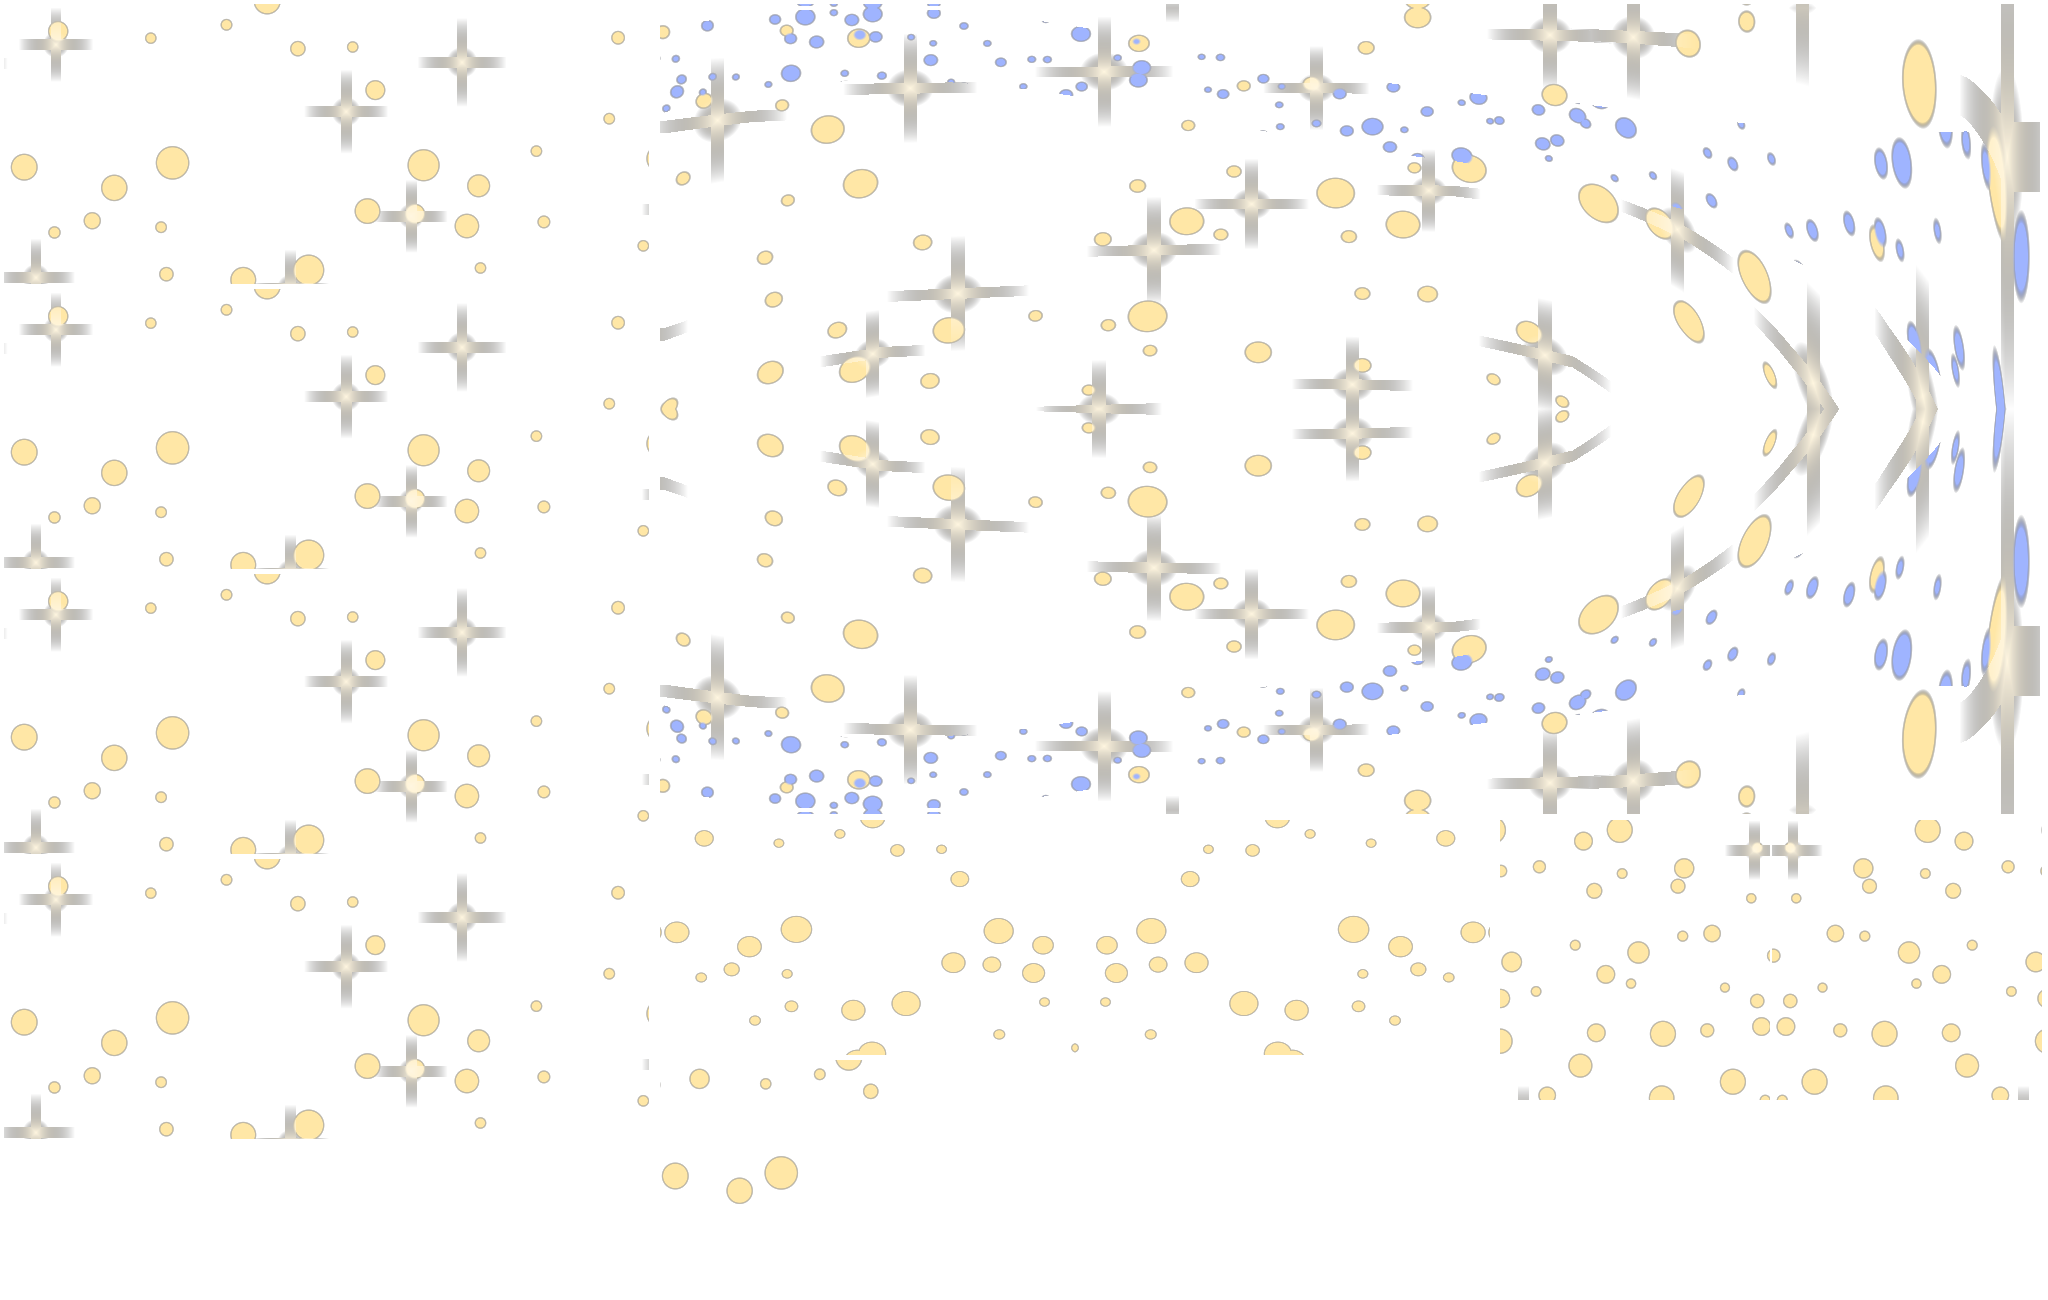
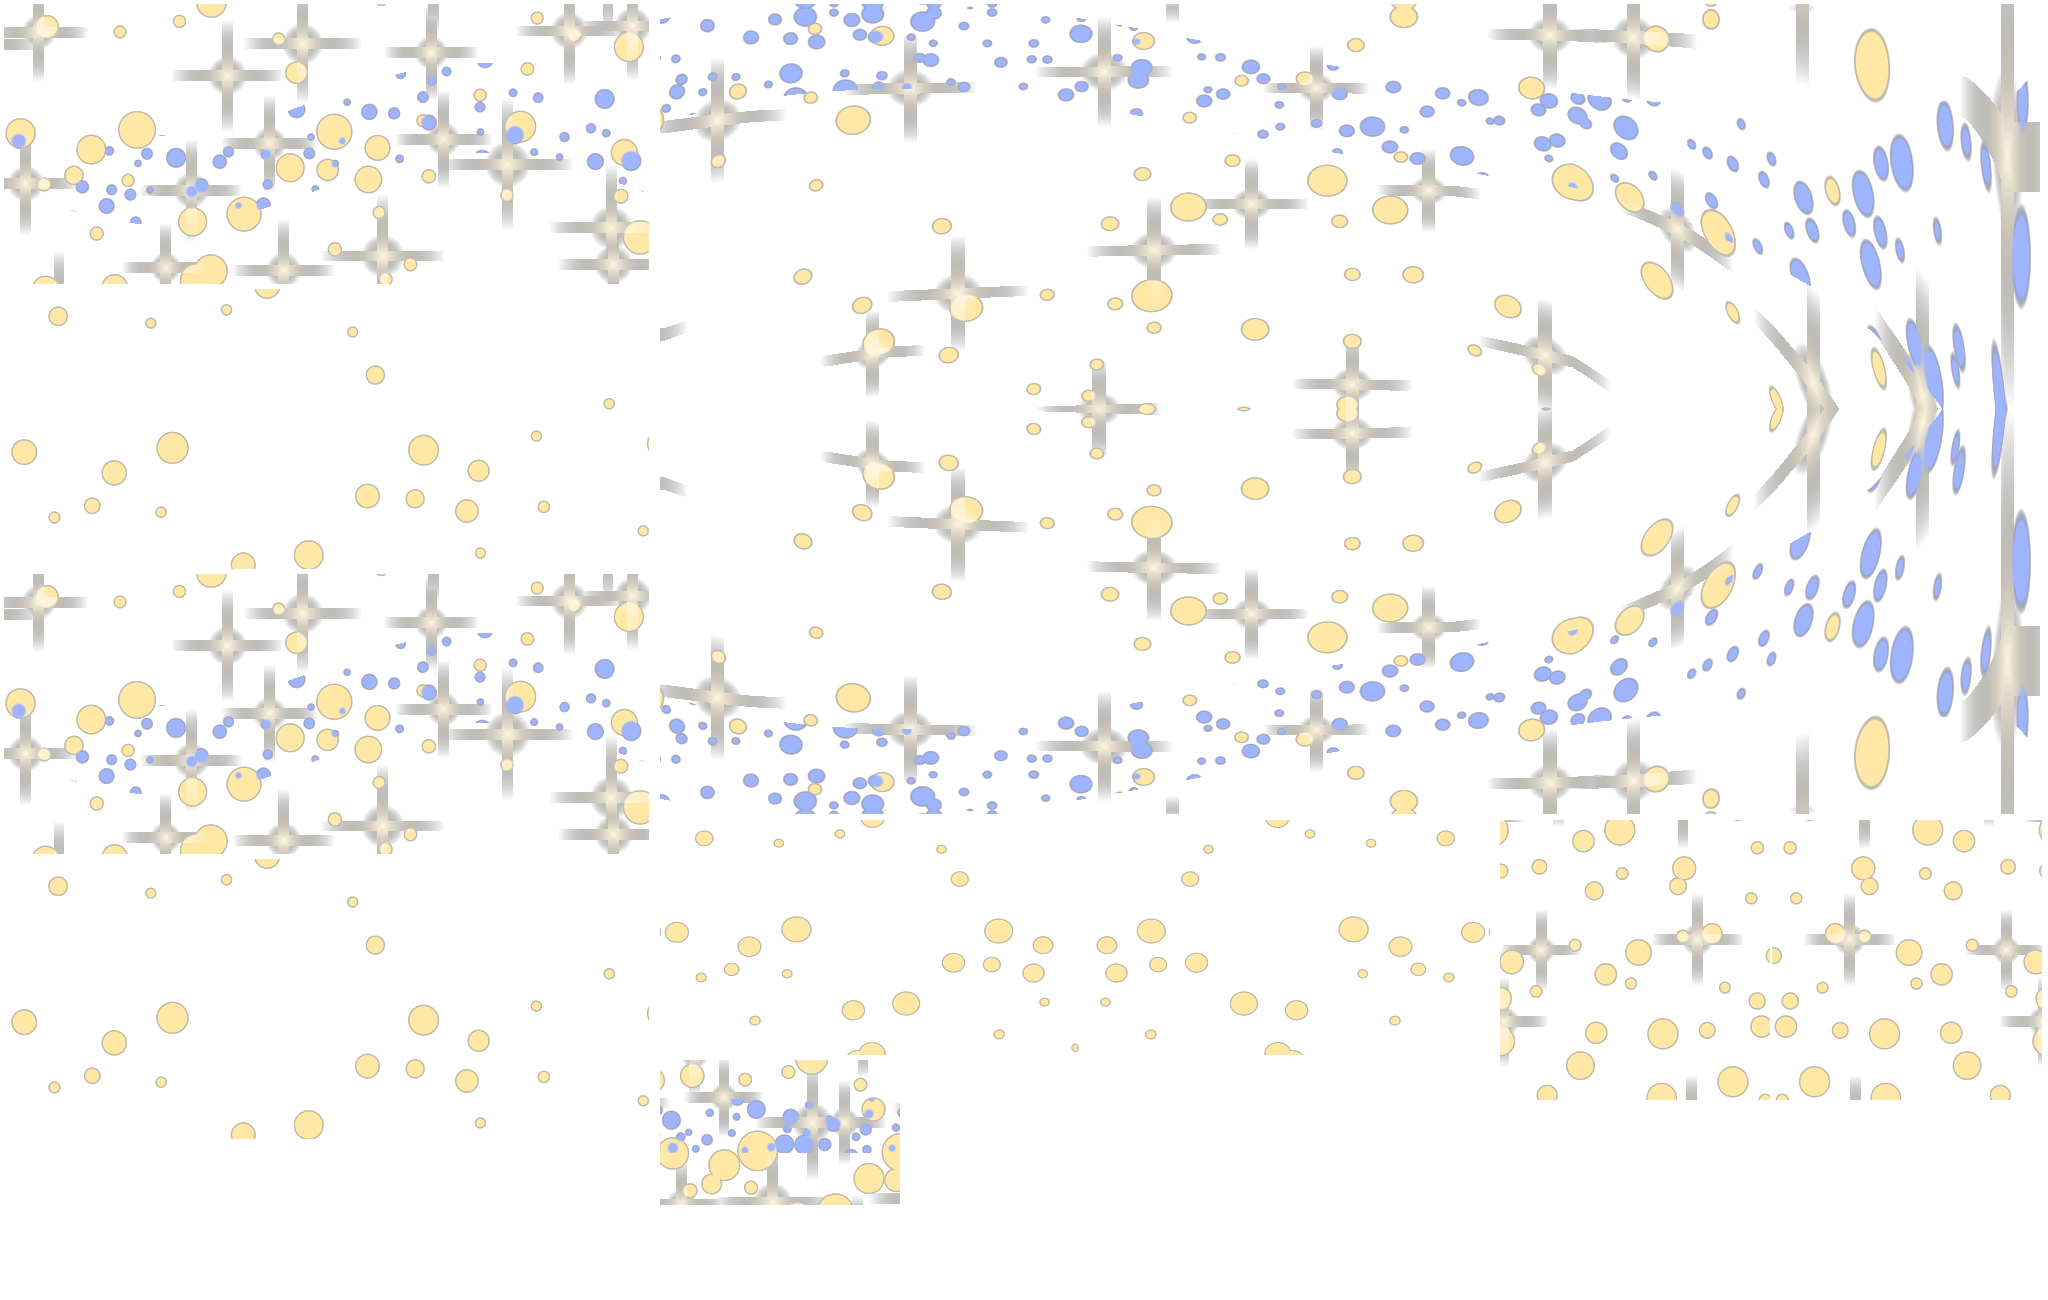
ITER(skins): lane glow: second pass for the chase view
Decisions: lit the surfaces the chase camera sees (top wing, tailplane, fin, back) on Vesper, Borealis and Abyss; Borealis ground to deep green-black, pearl 0.4; Cinder ground to ash charcoal with deeper red cracks. Ids, prices, sheens unchanged.
Checks: sheets with day and night rows (chase, top, quarter) of the five, looked at after the last change; smoke PASS.
Look at: captures/skins/glow_all.png, captures/skins/glow_b2.png
Notes for merge: none, no shared file changed.

diff --git a/art/blender/hero_plane/skins/glow.py b/art/blender/hero_plane/skins/glow.py
@@ -105,19 +105,26 @@ def filament():
 def vesper():
 	d = Decal()
 	G, W = "ffe7a6", "fff6e0"
-	for r, cell in (("body", 0.075), ("wings", 0.07), ("tail", 0.05), ("cowl", 0.06)):
-		d.mask(r, G, stars(cell, 0.0115, 3, 0.6))
+	for r, cell, sz in (("body", 0.07, 0.012), ("wings_top", 0.055, 0.013), ("wings_under", 0.07, 0.011), ("tail", 0.04, 0.014), ("cowl", 0.06, 0.011)):
+		d.mask(r, G, stars(cell, sz, 3, 0.55))
 	d.mask("body", W, sparkles(0.17, 0.05, 11, 0.9))
-	d.mask("wings", W, sparkles(0.2, 0.045, 5, 0.8))
-	d.mask("fin", G, stars(0.05, 0.01, 2, 0.6))
-	d.mask("fin", W, sparkles(0.2, 0.035, 8, 0.5))
-	# A faint arc of the milky way over the shoulder: dense small dots in a band.
+	d.mask("wings_top", W, sparkles(0.13, 0.06, 5, 0.9))
+	d.mask("tail", W, sparkles(0.09, 0.05, 6, 0.9))
+	d.mask("fin", G, stars(0.05, 0.012, 2, 0.7))
+	d.mask("fin", W, sparkles(0.15, 0.04, 8, 0.7))
+	# The milky way: a dense band of small stars over the shoulder and across the top wings and tail.
 	def milky(a, b, side):
 		z, s = a, np.abs(b)
 		centre = 0.09 + 0.05 * np.sin(z * 5.0)
-		on = (np.abs(s - centre) < 0.04).astype(np.float32)
-		return on * stars(0.026, 0.006, 21, 0.6)(a, b, side)
+		on = (np.abs(s - centre) < 0.05).astype(np.float32)
+		return on * stars(0.026, 0.007, 21, 0.7)(a, b, side)
 	d.mask("body", "9fb4ff", milky)
+	def band(a, b, side):
+		c = 0.15 + 0.04 * np.sin(a * 9.0)
+		on = (np.abs(b - c) < 0.05).astype(np.float32)
+		return on * stars(0.03, 0.007, 33, 0.6)(a, b, side)
+	d.mask("wings_top", "9fb4ff", band)
+	d.mask("tail", "9fb4ff", lambda a, b, side: ((np.abs(b - 0.07) < 0.03).astype(np.float32)) * stars(0.022, 0.007, 34, 0.75)(a, b, side))
 	d.save(OUT + "vesper_decal.png")
 
 
@@ -130,44 +137,41 @@ def cinder():
 			return np.clip(1 - e / width, 0, 1) ** 1.5
 		return fn
 	for r, cell, w in (("body", 0.17, 0.03), ("wings", 0.16, 0.028), ("cowl", 0.12, 0.022), ("tail", 0.1, 0.02)):
-		d.mask(r, "ff5a14", cracks(cell, 4, w), mirror=True)
-		d.mask(r, "ffb040", cracks(cell, 4, w * 0.35), mirror=True)
-	d.mask("fin", "ff5a14", cracks(0.1, 6, 0.02))
-	d.mask("fin", "ffb040", cracks(0.1, 6, 0.007))
+		d.mask(r, "c8420f", cracks(cell, 4, w), mirror=True)
+		d.mask(r, "ff8a2a", cracks(cell, 4, w * 0.35), mirror=True)
+	d.mask("fin", "c8420f", cracks(0.1, 6, 0.02))
+	d.mask("fin", "ff8a2a", cracks(0.1, 6, 0.007))
 	d.save(OUT + "cinder_decal.png")
 
 
 def borealis():
 	d = Decal()
-	def ribbon(centre, amp, k, ph, width, seed_vary=0.0):
+	GR, VI, TE = "28e6a4", "9a6bff", "5cf0d0"
+	def ribbon(centre, amp, k, ph, width):
 		def fn(a, b, side):
-			s = np.abs(b)
 			c = centre + amp * np.sin(a * k + ph)
-			t = np.clip(1 - np.abs(s - c) / width, 0, 1)
-			return t * t * (0.6 + 0.4 * np.sin(a * 17.0 + ph))
+			t = np.clip(1 - np.abs(np.abs(b) - c) / width, 0, 1)
+			return t ** 1.2 * (0.7 + 0.3 * np.sin(a * 17.0 + ph))
 		return fn
-	d.mask("body", "28e6a4", ribbon(0.10, 0.04, 5.0, 0.0, 0.075))
-	d.mask("body", "9a6bff", ribbon(0.20, 0.05, 4.0, 1.5, 0.07))
-	d.mask("body", "7affc8", ribbon(0.31, 0.04, 6.0, 3.0, 0.055))
-	def wing(c0, col, ph):
-		def fn(a, b, side):
-			cc = c0 + 0.03 * np.sin(a * 11.0 + ph)
-			return np.clip(1 - np.abs(b - cc) / 0.04, 0, 1) ** 1.2
-		return fn
-	d.mask("wings", "28e6a4", wing(0.10, 0, 0.0))
-	d.mask("wings", "9a6bff", wing(0.21, 0, 2.0))
-	d.mask("tail", "28e6a4", wing(0.05, 0, 0.5))
-	d.band("cowl", "28e6a4", (FRONT + 0.01, FRONT + 0.04))
-	def fin(a, b, side):
-		return np.clip(1 - np.abs(b - (0.17 + 0.03 * np.sin(a * 22))) / 0.04, 0, 1) ** 1.2
-	d.mask("fin", "28e6a4", fin)
+	d.mask("body", GR, ribbon(0.04, 0.03, 5.0, 0.0, 0.07))     # the back, seen from the chase camera
+	d.mask("body", VI, ribbon(0.17, 0.05, 4.0, 1.5, 0.07))
+	d.mask("body", TE, ribbon(0.30, 0.04, 6.0, 3.0, 0.055))
+	# Top wings: broad ribbons running span-wise (b = chord position, a = span).
+	d.mask("wings_top", GR, ribbon(0.07, 0.03, 9.0, 0.0, 0.065))
+	d.mask("wings_top", VI, ribbon(0.18, 0.035, 7.0, 2.0, 0.06))
+	d.mask("wings_top", TE, ribbon(0.27, 0.02, 11.0, 4.0, 0.035))
+	d.mask("wings_under", GR, ribbon(0.10, 0.03, 9.0, 0.0, 0.05))
+	d.mask("tail", GR, ribbon(0.04, 0.015, 14.0, 0.5, 0.045))
+	d.mask("tail", VI, ribbon(0.10, 0.015, 12.0, 2.5, 0.04))
+	d.band("cowl", GR, (FRONT + 0.01, FRONT + 0.04))
+	d.mask("fin", GR, lambda a, b, side: np.clip(1 - np.abs(b - (0.12 + 0.03 * np.sin(a * 22))) / 0.05, 0, 1) ** 1.2)
+	d.mask("fin", VI, lambda a, b, side: np.clip(1 - np.abs(b - (0.22 + 0.03 * np.sin(a * 18 + 2))) / 0.04, 0, 1) ** 1.2)
 	d.save(OUT + "borealis_decal.png")
 
 
 def abyss():
 	d = Decal()
 	C, W = "28c8ff", "b8f4ff"
-	# Rows of photophores: a lateral row, a belly row, a few above.
 	for z in np.arange(-0.40, 0.66, 0.062):
 		d.disc("body", C, (z, 0.17), 0.02)
 		d.disc("body", W, (z, 0.17), 0.009)
@@ -175,18 +179,28 @@ def abyss():
 		d.disc("body", C, (z, 0.31), 0.014)
 	for z in np.arange(-0.34, 0.5, 0.14):
 		d.disc("body", C, (z, 0.07), 0.014)
-	d.stripe("body", C, z=(-0.46, 0.7), s=(0.116, 0.128))   # a faint lateral line
+	d.stripe("body", C, z=(-0.46, 0.7), s=(0.116, 0.128))
+	d.stripe("body", C, z=(-0.46, 0.7), s=(0.0, 0.026))     # a lit spine along the back
+	# The top wings: rows of large lights along the span, three chord lines, a tip light.
+	for c in (0.05, 0.13, 0.21, 0.28):
+		for x in np.arange(0.05, 0.66, 0.065):
+			d.disc("wings_top", C, (x, c), 0.024)
+			d.disc("wings_top", W, (x, c), 0.01)
 	for x in np.arange(0.06, 0.66, 0.07):
-		for c in (0.06, 0.2):
-			d.disc("wings_top", C, (x, c), 0.018)
 		d.disc("wings_under", C, (x, 0.13), 0.016)
-	d.disc("wings", W, (0.66, 0.1), 0.024)
-	for x in np.arange(0.04, 0.25, 0.05):
-		d.disc("tail", C, (x, 0.07), 0.015)
-	for z in np.arange(0.5, 0.74, 0.045):
-		d.disc("fin", C, (z, 0.16), 0.015)
-	for s in np.arange(0.06, 0.5, 0.11):
-		d.disc("cowl", C, (s, FRONT + 0.03), 0.015)
+	d.disc("wings", W, (0.66, 0.1), 0.026)
+	d.rect("wings_top", C, (0.0, 0.7), (0.0, 0.016))
+	for x in np.arange(0.03, 0.25, 0.045):
+		for c in (0.035, 0.1):
+			d.disc("tail", C, (x, c), 0.019)
+			d.disc("tail", W, (x, c), 0.008)
+	d.rect("tail", C, (0.0, 0.26), (0.0, 0.014))
+	for z in np.arange(0.5, 0.74, 0.04):
+		d.disc("fin", C, (z, 0.12), 0.017)
+		d.disc("fin", C, (z, 0.22), 0.017)
+	d.stripe("fin", C, z=(0.47, 0.76), s=(0.05, 0.065))
+	for s_ in np.arange(0.06, 0.5, 0.11):
+		d.disc("cowl", C, (s_, FRONT + 0.03), 0.015)
 	d.save(OUT + "abyss_decal.png")
 
 
